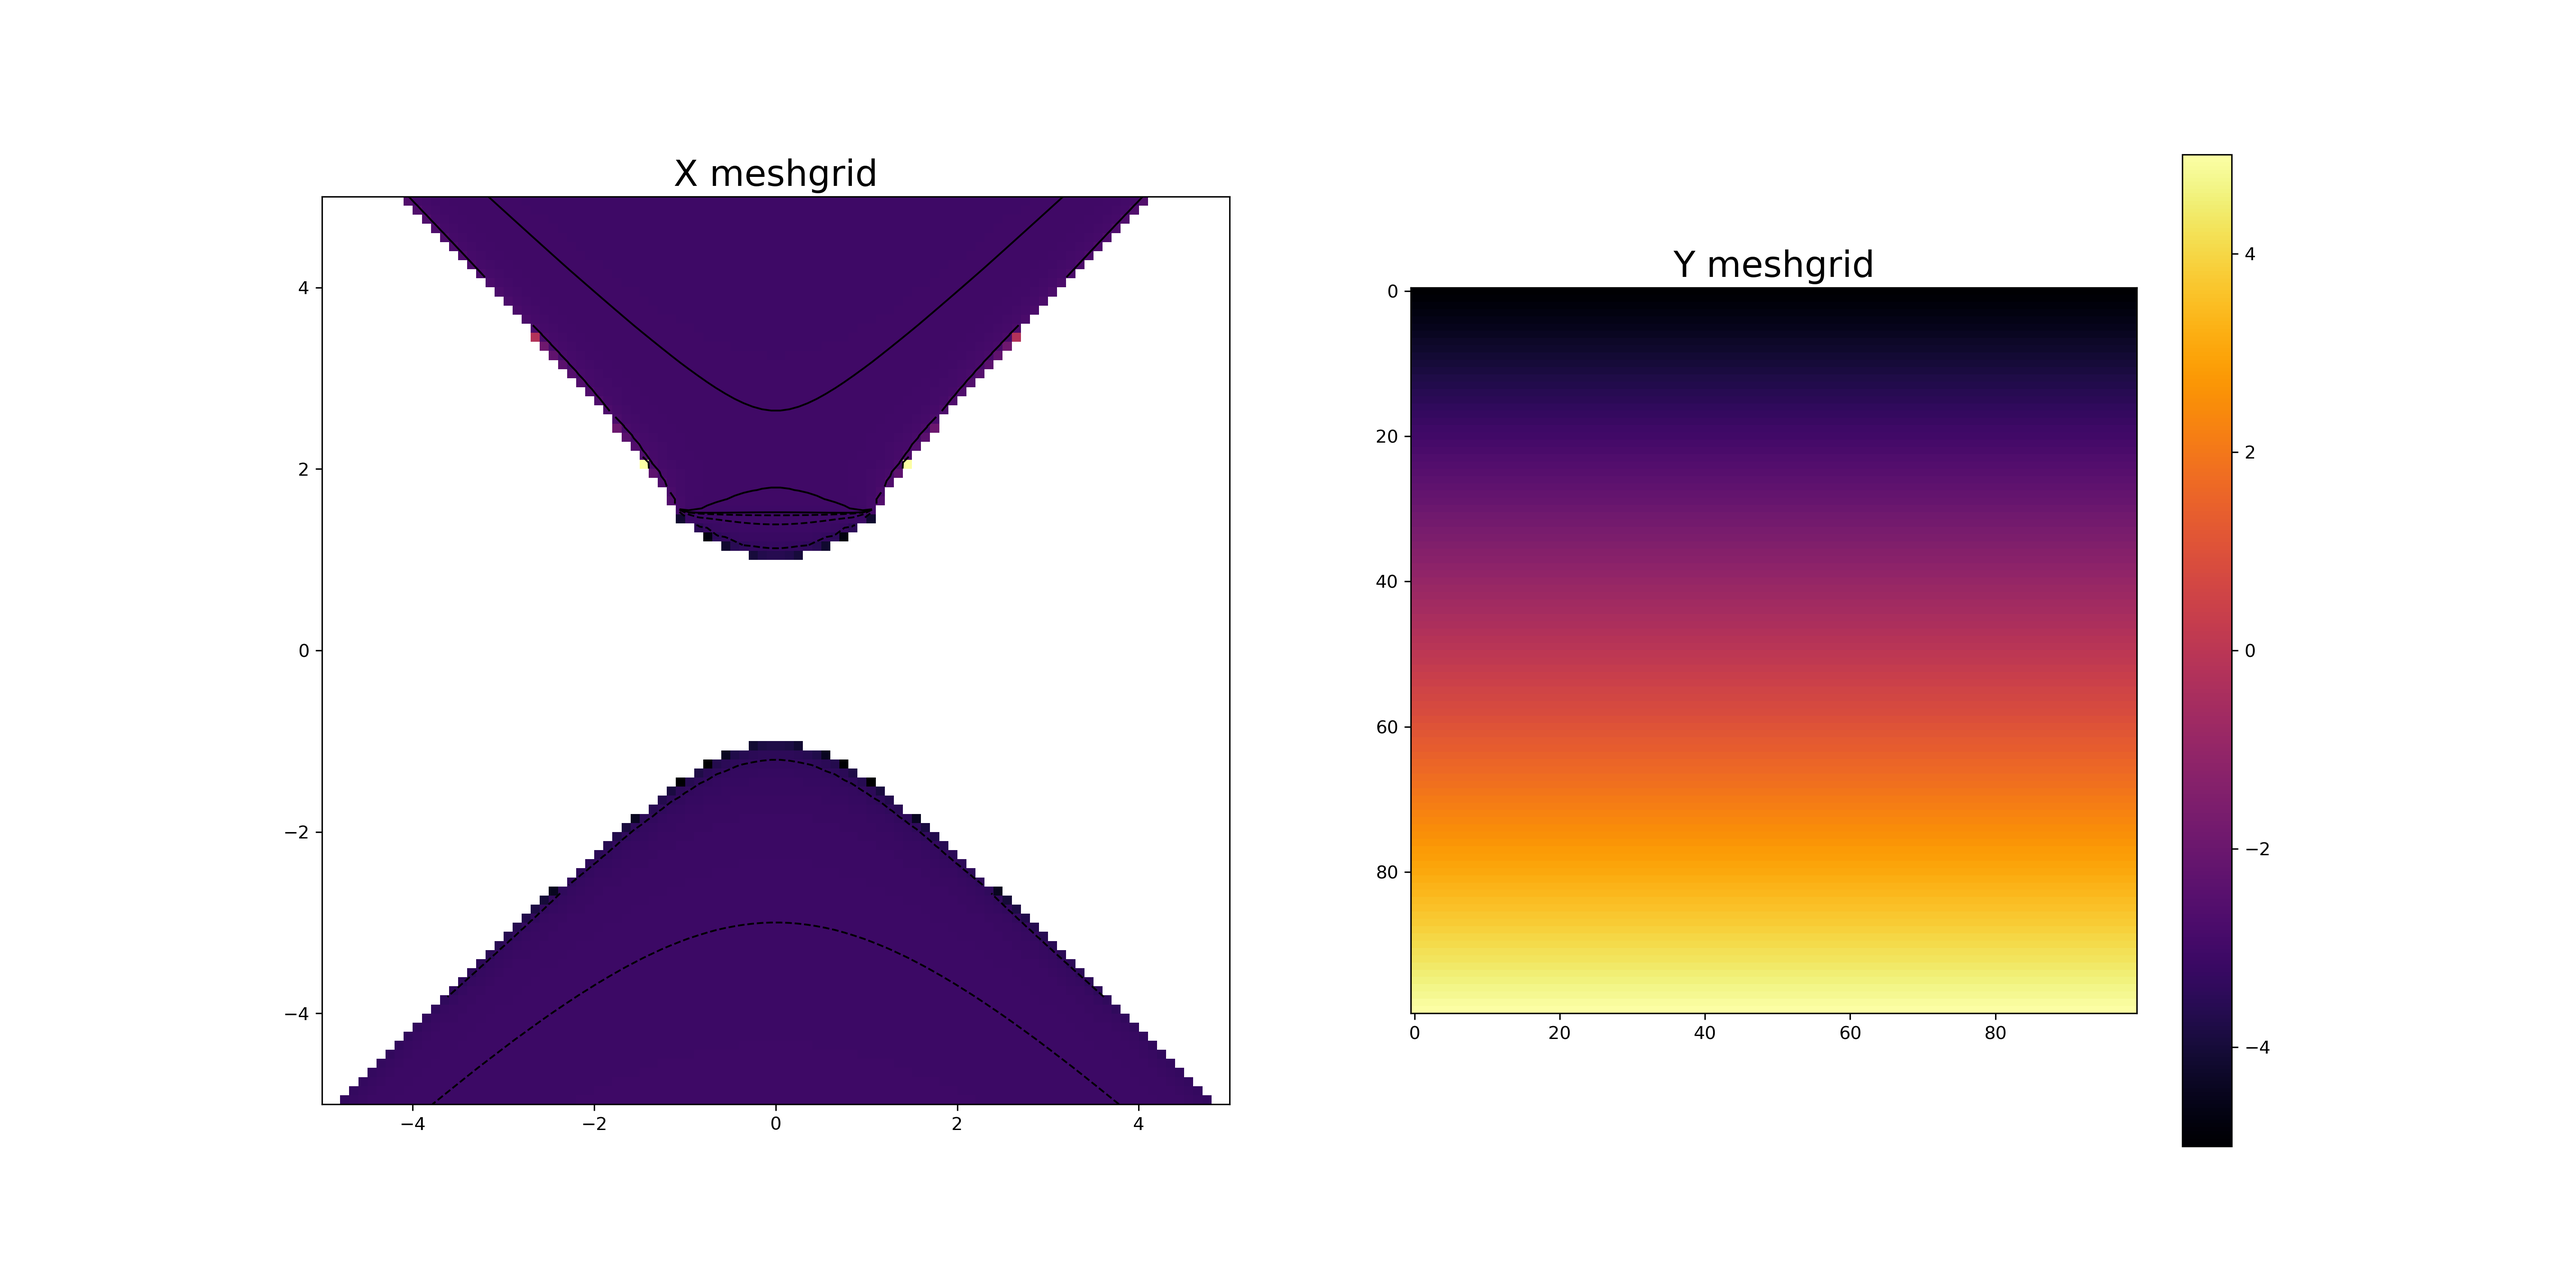
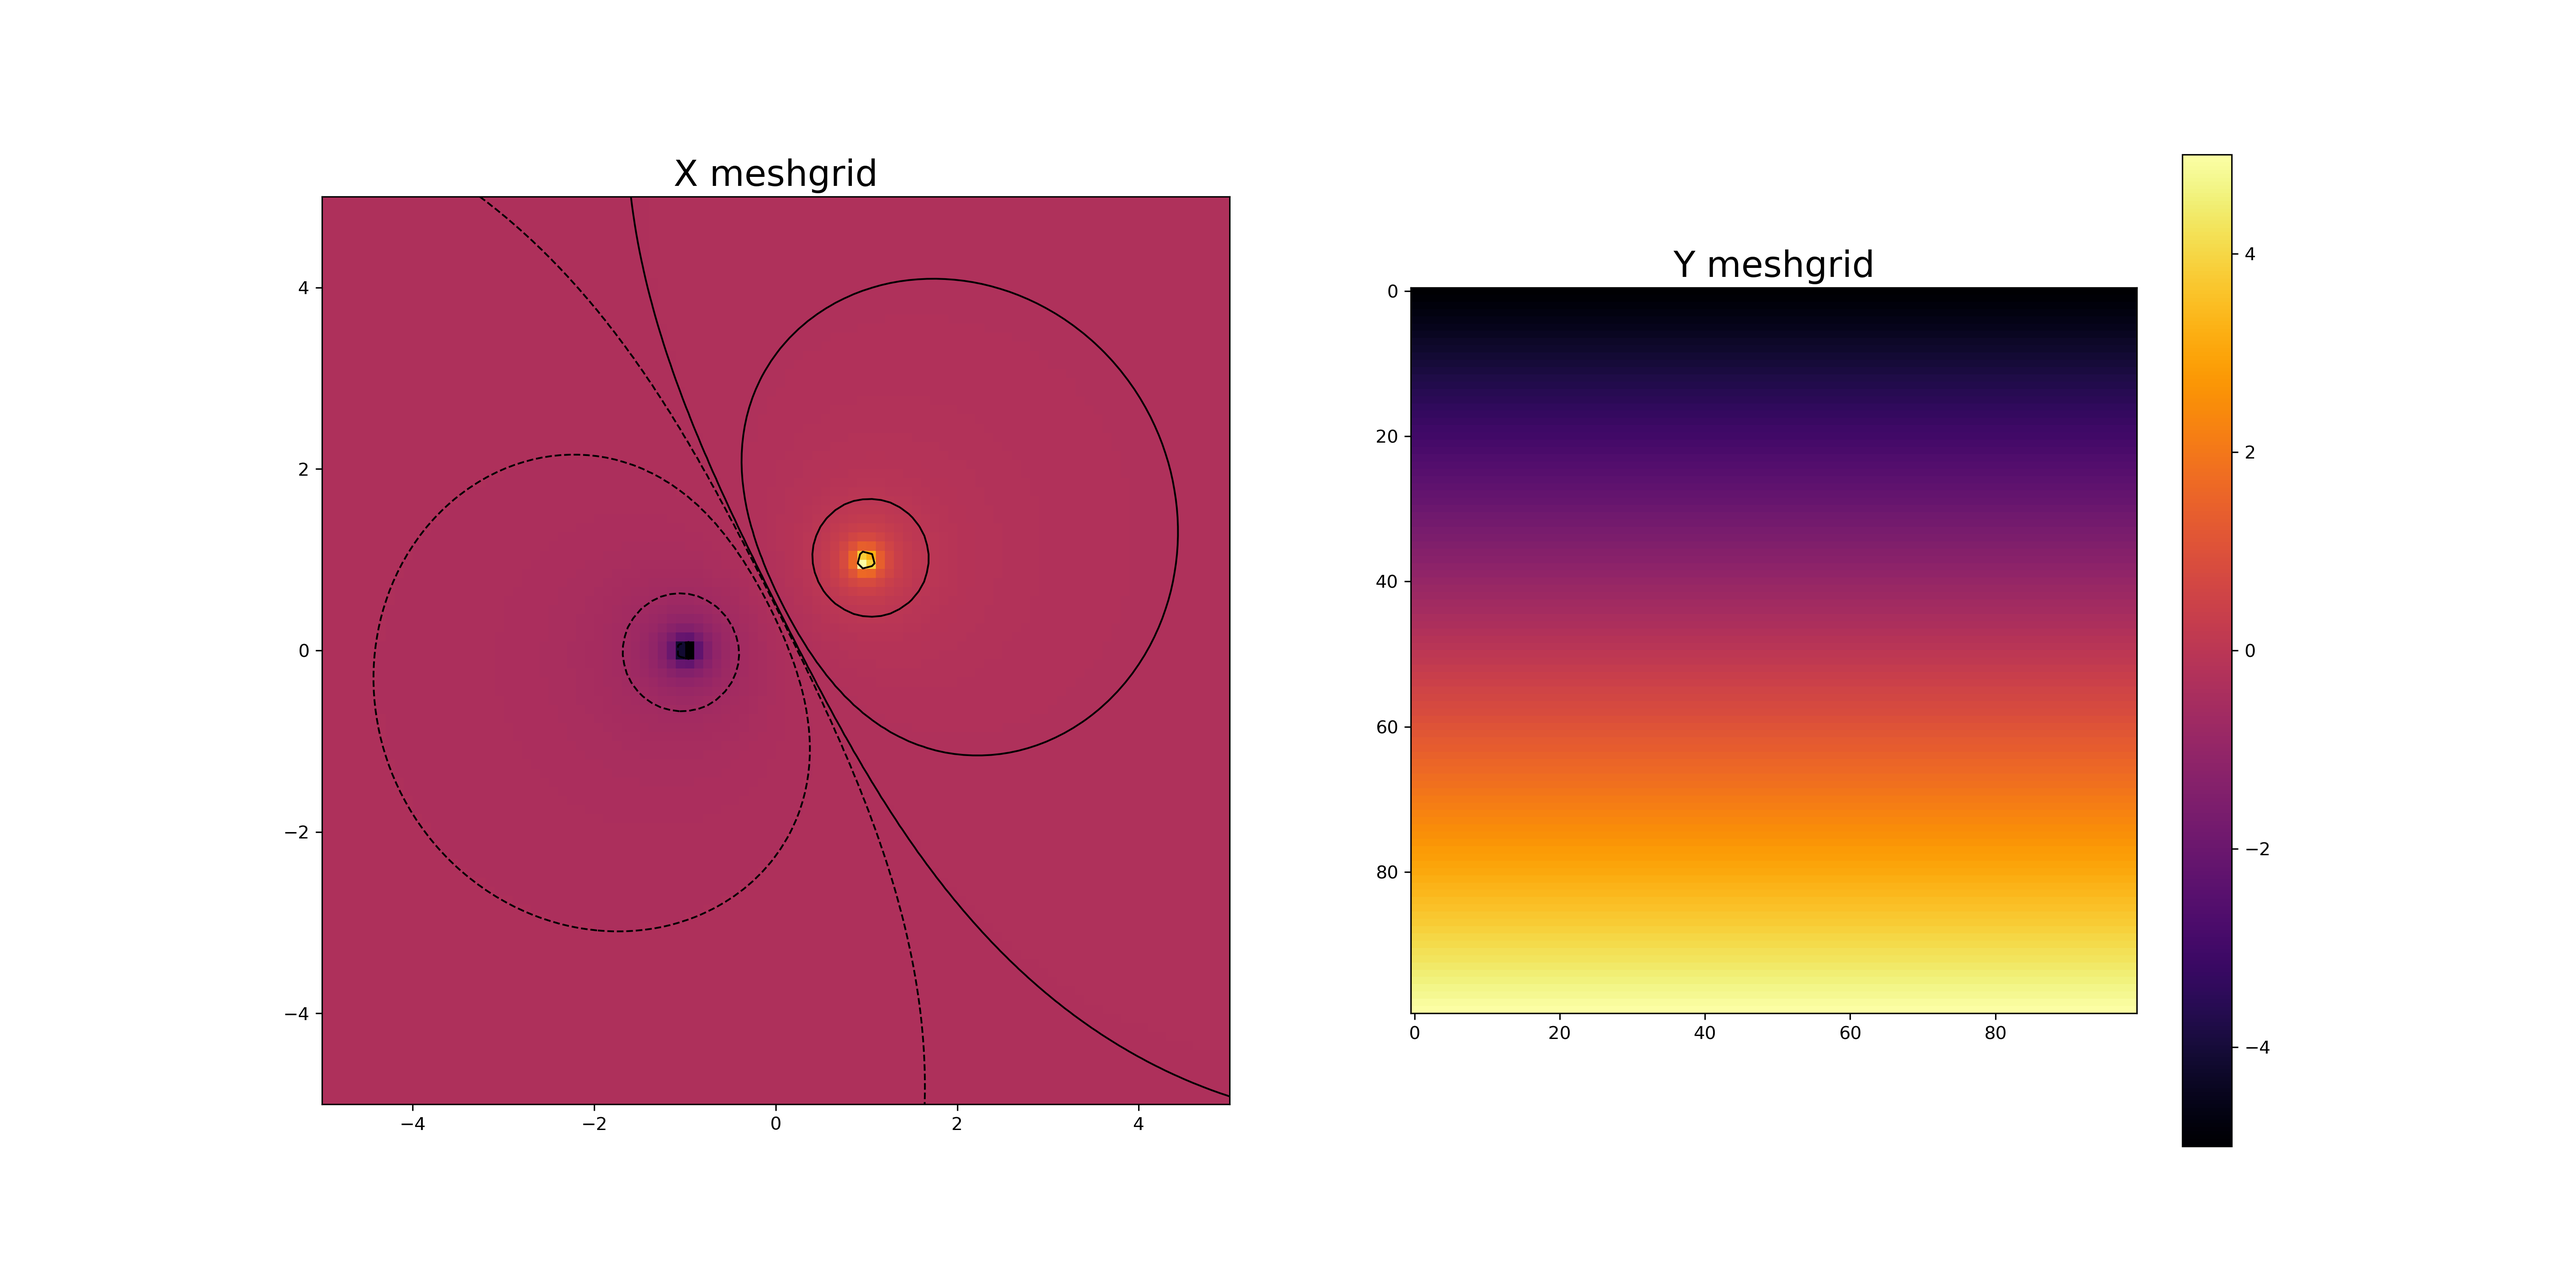
updated code with image

Changed region(s): [[0.1247, 0.155, 0.4987, 0.868]]

diff --git a/PHYS 2330 Graded Work/Computational Project 1 & Physics Assignment 2/Comp_assignment_1.py b/PHYS 2330 Graded Work/Computational Project 1 & Physics Assignment 2/Comp_assignment_1.py
@@ -17,7 +17,7 @@ import matplotlib.pyplot as plt
 def potential(q, rq, x, y):
     k = 8.99e9
 
-    r = np.sqrt((rq[0] - x**2) + (rq[1] - y)**2)
+    r = np.sqrt((rq[0] - x)**2 + (rq[1] - y)**2)
 
     V = k*q/r
 
